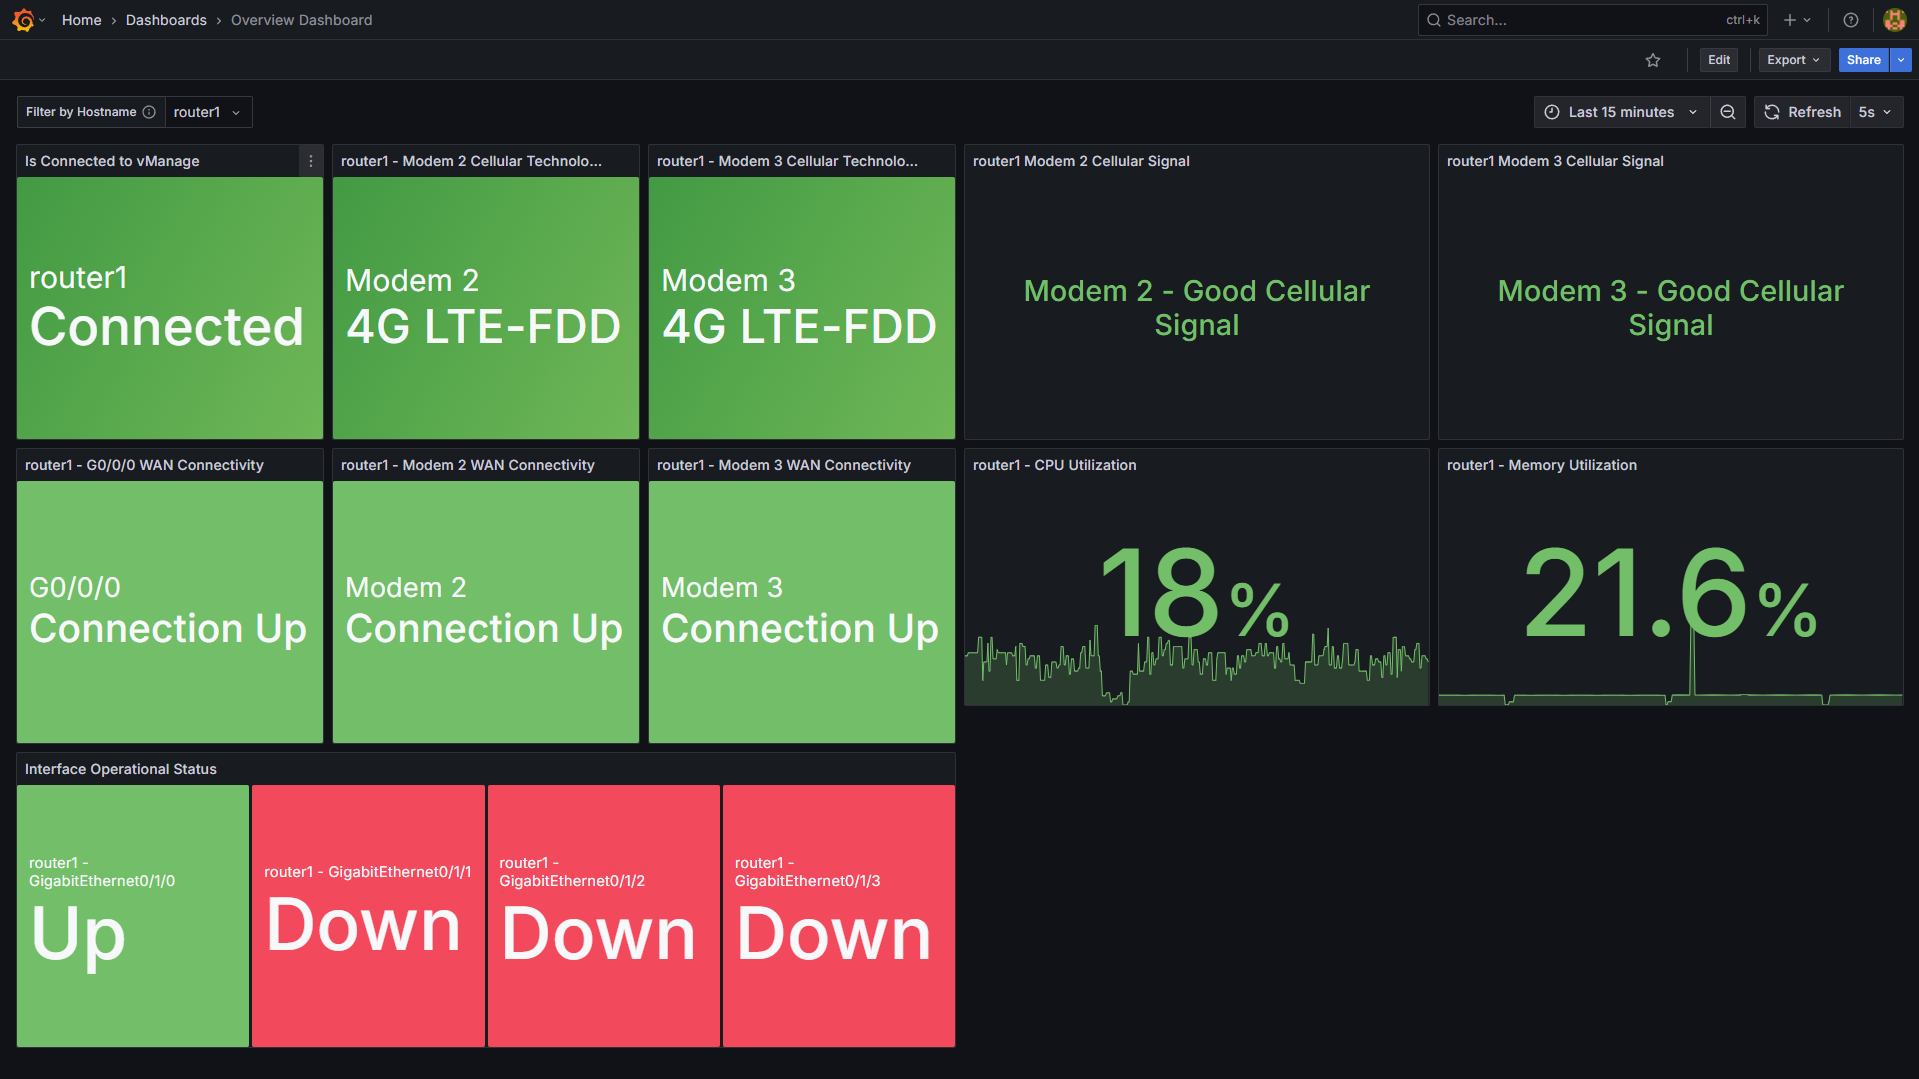
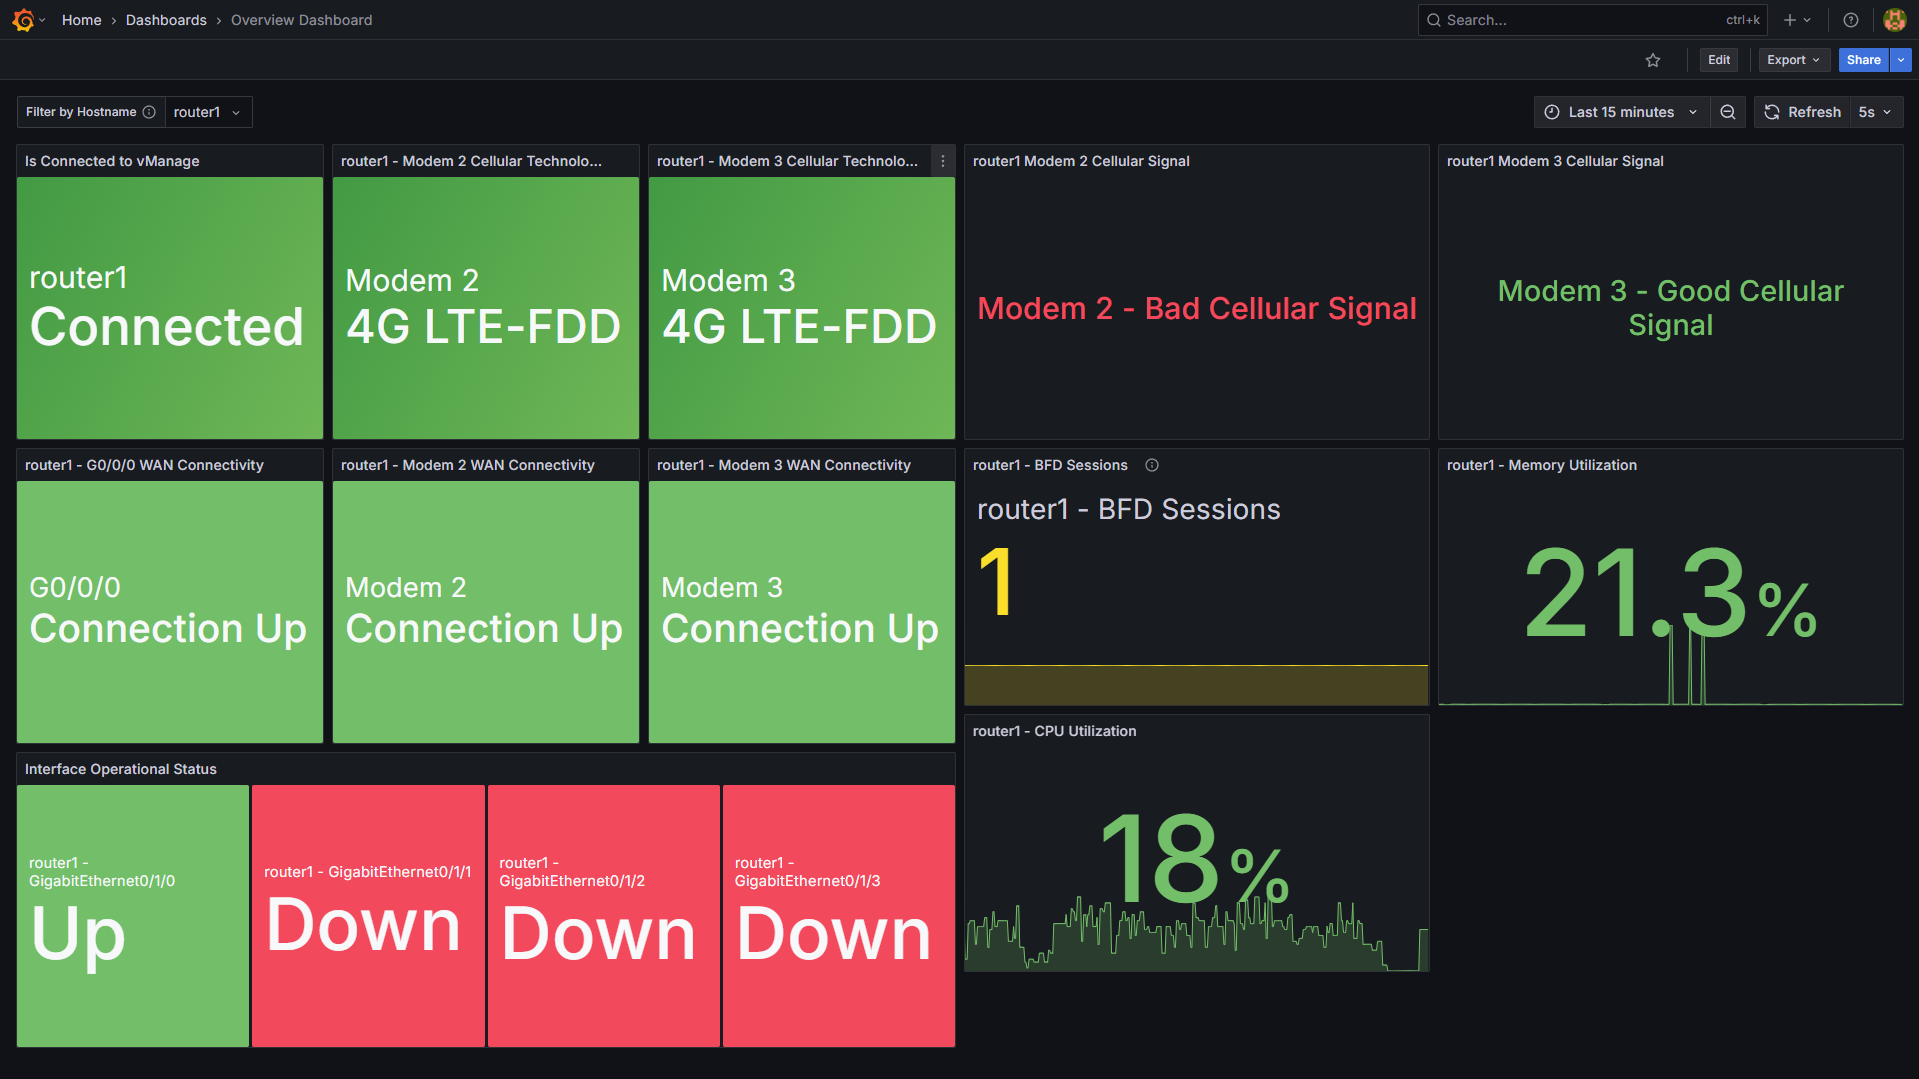
AddBFD (#9)
* Added NETCONF get operation for BFD sessions

* Updated screenshot

Changed region(s): [[0.4919, 0.4282, 1.0, 0.7034], [0.4919, 0.734, 0.7686, 0.9175], [0.4919, 0.2447, 0.7379, 0.3364]]

diff --git a/telegraf/exec-netconf-bfd-sessions.py b/telegraf/exec-netconf-bfd-sessions.py
@@ -1,0 +1,123 @@
+from typing import Dict
+import xmltodict
+import json
+from dotenv import load_dotenv
+import os
+import yaml
+import sys
+sys.path.append('ncclient')
+from ncclient import manager
+import time
+import logging
+
+logger = logging.getLogger(__name__)
+logging.getLogger().setLevel(logging.WARNING)
+
+routerManagers = {}
+
+def dict_to_telegraf_json(rpc_reply_dict: Dict, hostname: str) -> str:
+    """
+    """
+
+    stats_array = []
+    dict = {
+        "vmanage-is-connected": 1 if rpc_reply_dict["rpc-reply"]["data"]["system"]["vmanage-is-connected"]=="true" else 0,
+        "field": "system"
+    }  # trying to get rate of consumption of processes
+    if hostname:
+        dict.update({"hostname": hostname})
+    stats_array.append(dict)
+
+    return json.dumps(stats_array)  # return JSON formatted data
+
+def parseRPC(rpc_reply_dict: Dict, hostname: str) -> list:
+    """
+    """
+    sessionArray = []
+    for session in rpc_reply_dict['rpc-reply']['data']['bfd']['sessions-list']:
+        dict = {
+            "protocol": session['proto'],
+            "remote-system-ip": session['system-ip'],
+            "remote-site-id": session['site-id'],
+            "local-color": session['local-color'],
+            "remote-color": session['color'],
+            "state": 1 if session['state']=="up" else 0,
+            "field": "bfd_sessions"
+        }
+        
+        if hostname:
+            dict.update({"hostname": hostname})
+        sessionArray.append(dict) 
+
+    return sessionArray  # return array of data
+
+def connectRouter(router: str, config, reattempts=3):
+        assert reattempts > 0
+        credentials = config['devices'][router]['credentials']
+        success = False
+        for i in range(0, reattempts):
+            if success is not True:
+                for credential in credentials.keys():
+                    try:
+                        m = manager.connect(
+                            host=config['devices'][router]['host'],
+                            port=config['devices'][router]['port'],
+                            username=config['devices'][router]['credentials'][credential]['username'],
+                            password=os.environ[config['devices'][router]['credentials'][credential]['password_env']],
+                            hostkey_verify=bool(config['devices'][router]['hostkey_verify']),
+                            device_params=config['devices'][router]['device_params'],
+                            allow_agent=False,
+                            look_for_keys=False,
+                            timeout=300,
+                            keepalive=True
+                        )
+                        routerManagers.update({router: m})
+                        success = True
+                        break
+                    except:
+                        logger.warning(f"Credential {[config['devices'][router]['credentials'][credential]['password_env']]} for {router} failed on attempt {i + 1}")
+                        routerManagers.update({router: None})
+            if success:
+                return True
+            else:
+                return False
+
+
+def main():
+    load_dotenv()
+
+    with open('networkdevices.yml', 'r') as file:
+        config = yaml.safe_load(file)
+
+    routers = list(config['devices'].keys())
+
+    netconf_filter = """
+        <filter xmlns="urn:ietf:params:xml:ns:netconf:base:1.0">
+            <bfd xmlns="http://viptela.com/bfd">
+                <sessions-list/>
+            </bfd>
+        </filter>
+        """
+    # Attempt to connect to every router. Upon a successful connection, subscribe to the telemetry data
+    collectedJson = []
+    parsedJSON = []
+    for router in routers:
+        if connectRouter(router=router, config=config):
+            netconf_rpc_reply = routerManagers[router].get(
+                        filter = netconf_filter
+                    ).xml
+            netconf_reply_dict = xmltodict.parse(netconf_rpc_reply)
+            telegraf_json_input = parseRPC(netconf_reply_dict, router)
+            collectedJson.append(telegraf_json_input)
+            parsedJSON.append(parseRPC(netconf_reply_dict, router))
+        else:
+            logging.warning(f"Unable to connect to {router}")
+    if len(collectedJson) != 0:
+        jsonArray = []
+        # Arrange the data in a way that the exec plugin of Telegraf requires
+        for router in parsedJSON:
+            jsonArray.extend(router)
+        print(json.dumps(jsonArray))
+
+if __name__ == "__main__":
+    main()

diff --git a/telegraf/netconf-streaming-telemetry.py b/telegraf/netconf-streaming-telemetry.py
@@ -221,26 +221,34 @@ def notificationCallback(notif):
                             stats_array.append(dict)
                     print(json.dumps(stats_array))
 
-                case "sessions-list":
-                    array = []
-                    for session in rpc_reply_dict['notification']['push-update']['datastore-contents-xml']["bfd"]["sessions-list"]:
-                        dict = {
-                            "protocol": session['proto'],
-                            "system-ip": session['system-ip'],
-                            "site-id": session['site-id'],
-                            "local-color": session['local-color'],
-                            "remote-color": session['color'],
-                            "state": session['state'],                                                                                     
-                            "field": "bfd_sessions"
-                        }  
-                        if hostname:
-                            dict.update({"hostname": hostname})
-                        array.append(dict)
-                    print(json.dumps(array))
+                # case "bfd": # For some reason, some routers are replying with nothing in 'datastore-contents-xml'
+                #     array = []
+                #     # Can be pulled via netconf get but not via yang-push
+                #     # for session in rpc_reply_dict['notification']['push-update']['datastore-contents-xml']["bfd"]["sessions-list"]:
+                #     #     dict = {
+                #     #         "protocol": session['proto'],
+                #     #         "system-ip": session['system-ip'],
+                #     #         "site-id": session['site-id'],
+                #     #         "local-color": session['local-color'],
+                #     #         "remote-color": session['color'],
+                #     #         "state": session['state'],                                                                                     
+                #     #         "field": "bfd_sessions"
+                #     #     }  
+                #     for tloc in rpc_reply_dict['notification']['push-update']['datastore-contents-xml']["bfd"]["tloc-summary-list"]:
+                #         dict = {
+                #             "name": tloc['if-name'],
+                #             "sessions-up": tloc['sessions-up'],
+                #             "sessions-total": tloc['sessions-total'],                                                                                     
+                #             "field": "bfd_sessions"
+                #         }  
+                #         if hostname:
+                #             dict.update({"hostname": hostname})
+                #         array.append(dict)
+                #     print(json.dumps(array))
 
-                case _:
-                    print(f"No matching case for {content}",file=sys.stderr)
-                    logger.error(f"No matching case for {content}")
+                # case _:
+                #     print(f"No matching case for {content}",file=sys.stderr)
+                #     logger.error(f"No matching case for {content}")
 
 def subscriptionCallback(notif):
     print('-->>')
@@ -308,7 +316,6 @@ def subscribe(router: str, config):
                 logger.info('Subscription Id     : %d' % s.subscription_id)
                 subs.append(s.subscription_id)
                 activeSubscriptions[router].insert(0, {'subscription_id': s.subscription_id, 'xpath': xpath})            
-
                 # Remove old subscriptions that have the same xpath
                 subscriptionToDelete = []
 
